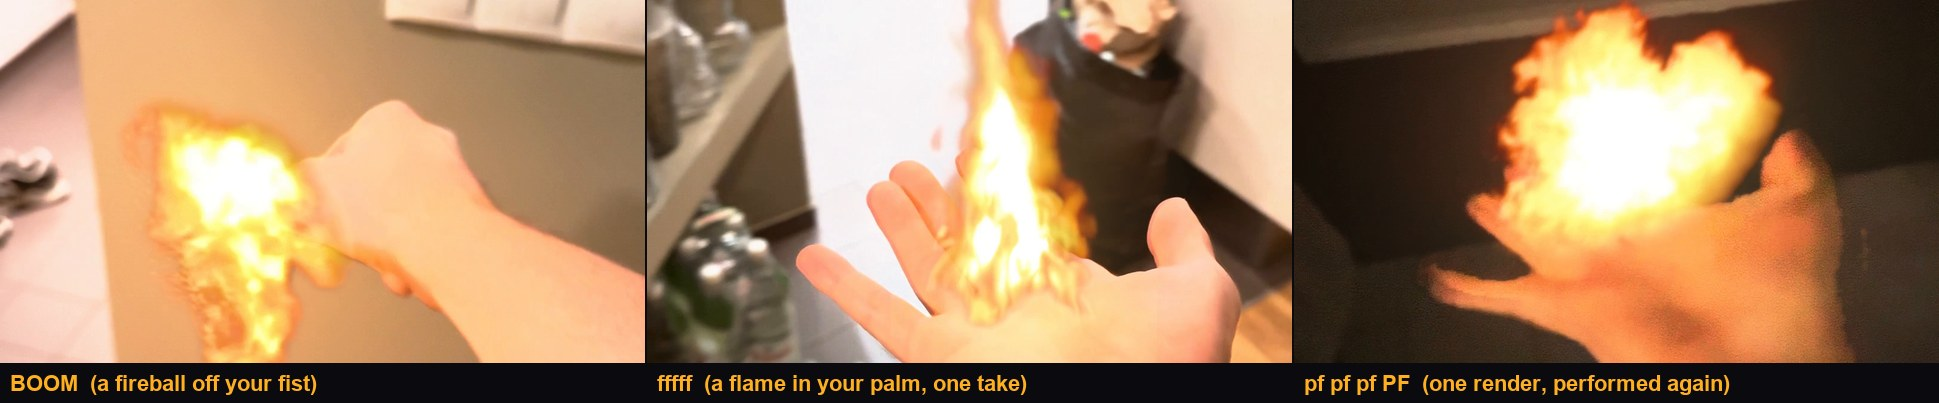
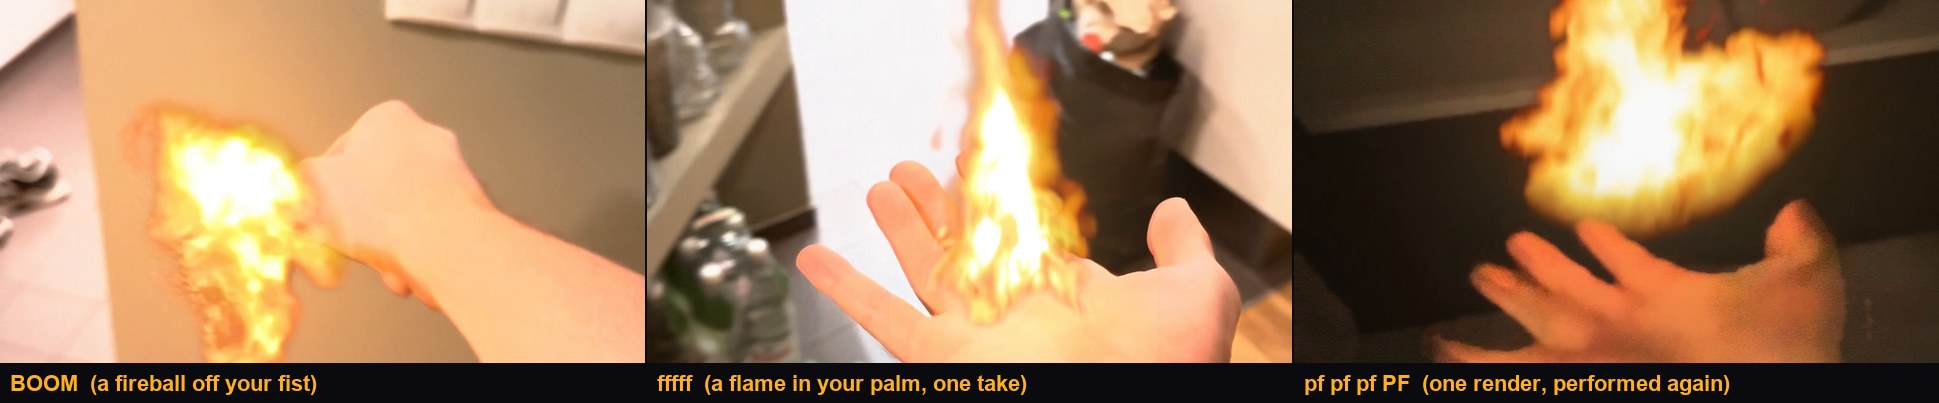
readme: the hero's pf pf pf PF band from its own rhythm again (its fireball leaps off the palm)

Changed region(s): [[0.6808, 0.0, 1.0, 0.9231], [0.6498, 0.5062, 0.7117, 0.6253]]

diff --git a/tools/demo/hand_hero_card.py b/tools/demo/hand_hero_card.py
@@ -11,7 +11,7 @@ G, G2 = "runs/takes/gpu", "runs/takes/gpu2"
 SHOTS = [  # composite, frame, top of the 16:9 band (share of the height), label
     (f"{G2}/IMG_6663_fire_burst_comp/composite.mp4", 66, 0.27, "BOOM  (a fireball off your fist)"),
     (f"{G2}/IMG_6668_flame_plume_s2_again/composite.mp4", 120, 0.38, "fffff  (a flame in your palm, one take)"),
-    ("runs/takes/rhythms/pf_x4/composite.mp4", 64, 0.42, "pf pf pf PF  (one render, performed again)"),
+    ("runs/takes/rhythms/pf_x4/composite.mp4", 64, 0.36, "pf pf pf PF  (one render, performed again)"),
 ]
 W, LABEL = 645, 40
 f = ImageFont.truetype("arialbd.ttf", 22)
